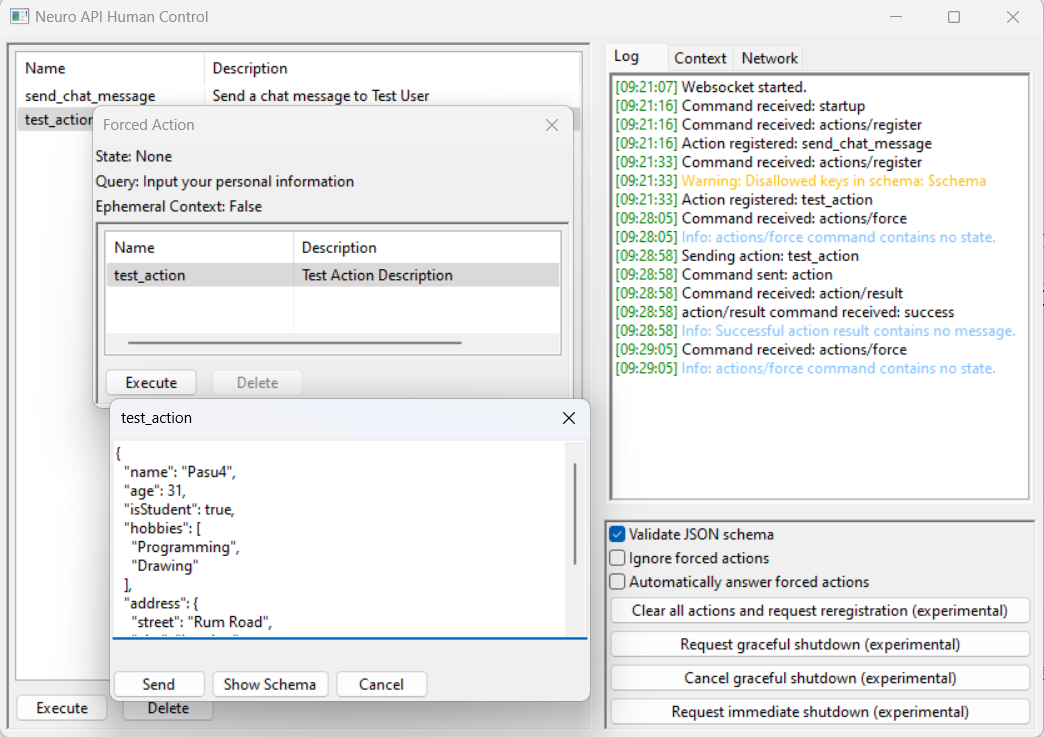
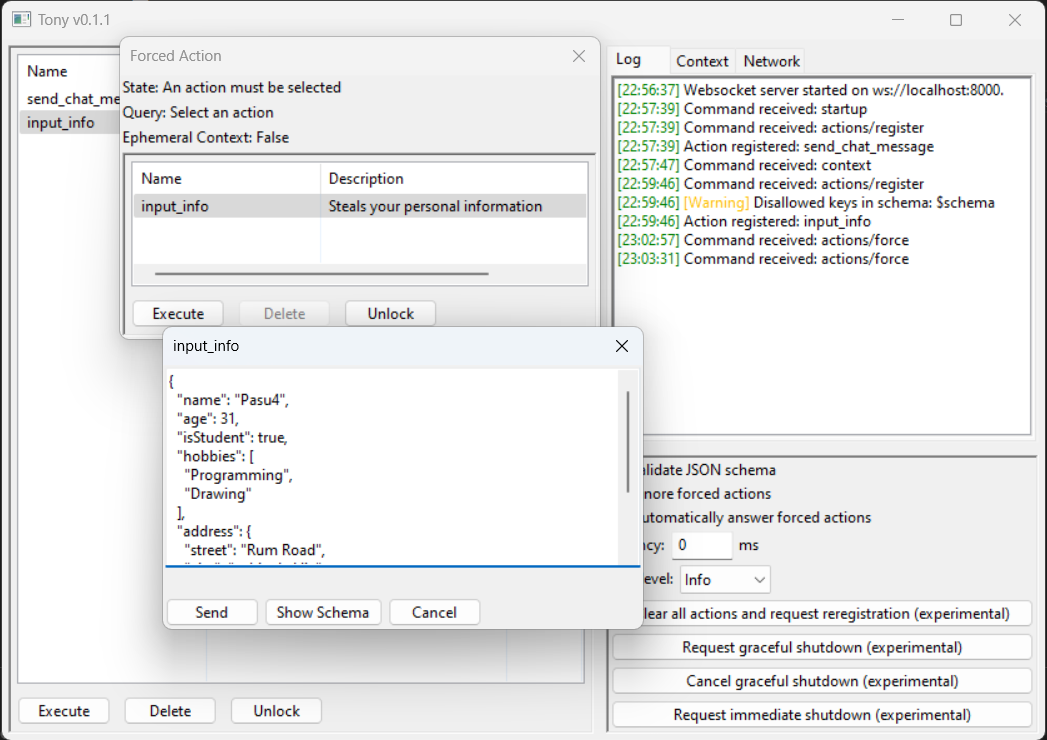
Rename to Tony

Changed region(s): [[0.0, 0.0, 1.0, 1.0], [0.9502, 0.0, 1.0, 0.0312], [0.8889, 0.0, 0.9195, 0.0312]]

diff --git a/src/view.py b/src/view.py
@@ -5,7 +5,8 @@ import wx
 from datetime import datetime as dt
 from jsf import JSF
 
-from .model import HumanModel, NeuroAction
+from .constants import VERSION
+from .model import TonyModel, NeuroAction
 
 #region Events
 
@@ -65,10 +66,10 @@ LOG_LEVELS = {
 
 #endregion
 
-class HumanView:
-    '''The view class for the Human Control application.'''
+class TonyView:
+    '''The view class for Tony.'''
 
-    def __init__(self, app: wx.App, model: HumanModel, log_level: str):
+    def __init__(self, app: wx.App, model: TonyModel, log_level: str):
         self.model = model
 
         self.controls = Controls()
@@ -249,10 +250,10 @@ class HumanView:
         self.enable_actions()
 
 class MainFrame(wx.Frame):
-    '''The main frame for the Human Control application.'''
+    '''The main frame for the Tony.'''
 
-    def __init__(self, view: HumanView):
-        super().__init__(None, title='Neuro API Human Control')
+    def __init__(self, view: TonyView):
+        super().__init__(None, title='Tony v' + VERSION)
 
         self.view = view
         self.panel = MainPanel(self)
@@ -261,7 +262,7 @@ class MainFrame(wx.Frame):
         self.SetSize((850, 600))
 
 class MainPanel(wx.Panel):
-    '''The main panel for the Human Control application.'''
+    '''The main panel for Tony.'''
 
     def __init__(self, parent):
         super().__init__(parent)
@@ -433,7 +434,7 @@ class ControlPanel(wx.Panel):
     def __init__(self, parent):
         super().__init__(parent, style=wx.BORDER_SUNKEN)
 
-        self.view: HumanView = self.GetTopLevelParent().view
+        self.view: TonyView = self.GetTopLevelParent().view
 
         # Create controls
 
@@ -631,7 +632,7 @@ class ActionDialog(wx.Dialog):
 
 class ActionsForceDialog(wx.Dialog):
 
-    def __init__(self, parent, view: HumanView, state: str, query: str, ephemeral_context: bool, actions: list[NeuroAction], retry: bool = False):
+    def __init__(self, parent, view: TonyView, state: str, query: str, ephemeral_context: bool, actions: list[NeuroAction], retry: bool = False):
         title = 'Forced Action' if not retry else 'Retry Forced Action'
         super().__init__(parent, title=title, style=wx.DEFAULT_DIALOG_STYLE | wx.RESIZE_BORDER)
 

diff --git a/src/controller.py b/src/controller.py
@@ -6,8 +6,8 @@ import jsonschema.tests
 import wx
 from jsf import JSF
 
-from .model import HumanModel, NeuroAction
-from .view import HumanView
+from .model import TonyModel, NeuroAction
+from .view import TonyView
 from .api import *
 
 def action_id_generator():
@@ -18,12 +18,12 @@ def action_id_generator():
         yield f'action_{i}'
         i += 1
 
-class HumanController:
+class TonyController:
 
     def __init__(self, app: wx.App, log_level: str):
         self.app = app
-        self.model = HumanModel()
-        self.view = HumanView(app, self.model, log_level)
+        self.model = TonyModel()
+        self.view = TonyView(app, self.model, log_level)
         self.api = NeuroAPI()
 
         self.active_actions_force: ActionsForceCommand | None = None

diff --git a/src/__main__.py b/src/__main__.py
@@ -6,7 +6,7 @@ from git import CommandError, Repo
 from git.exc import InvalidGitRepositoryError
 import subprocess
 
-from .controller import HumanController
+from .controller import TonyController
 from .constants import APP_NAME, VERSION, GIT_REPO_URL
 
 help_message = '''
@@ -122,5 +122,5 @@ if __name__ == '__main__':
 
     # Start the program
     app = wx.App()
-    controller = HumanController(app, log_level)
+    controller = TonyController(app, log_level)
     controller.run(address, port)

diff --git a/src/constants.py b/src/constants.py
@@ -1,3 +1,3 @@
-APP_NAME = 'Neuro API Human Control' # Rename?
-VERSION = '0.1.0'
-GIT_REPO_URL = 'https://github.com/Pasu4/neuro-api-human-control'
+APP_NAME = 'Tony'
+VERSION = '0.1.1'
+GIT_REPO_URL = 'https://github.com/Pasu4/neuro-api-tony'

diff --git a/src/model.py b/src/model.py
@@ -1,6 +1,6 @@
 from typing import Any, Optional
 
-class HumanModel:
+class TonyModel:
     
     def __init__(self):
         self.actions: list[NeuroAction] = []

diff --git a/README.md b/README.md
@@ -1,7 +1,7 @@
-# Neuro API Human Control
+# Tony
 
 Graphical implementation of the Neuro API in python.
-Like [Randy](https://github.com/VedalAI/neuro-game-sdk/blob/main/Randy), it can answer `actions/force` commands automatically, but also allows the user to formulate the response Neuro would send themselves, as well as send non-forced actions whenever.
+Like [Randy](https://github.com/VedalAI/neuro-game-sdk/blob/main/Randy), he can answer `actions/force` commands automatically, but also allows the user to formulate the response Neuro would send themselves, as well as send non-forced actions whenever.
 
 > [!Note]
 > I cannot guarantee that this implementation perfectly emulates what Neuro could/would do, or that it is error-free.
@@ -13,7 +13,7 @@ This will install the package in a virtual environment to not conflict with any 
 Skip steps 2 and 3 if you don't want a virtual environment.
 **All commands after step 1 should be run in the downloaded folder.**
 
-1. Clone the repository with `git clone https://github.com/Pasu4/neuro-api-human-control.git` or download it from GitHub
+1. Clone the repository with `git clone https://github.com/Pasu4/neuro-api-tony.git` or download it from GitHub
 2. Run `python -m venv .venv`
 3. Run `.\.venv\Scripts\activate` on Windows, or `source ./.venv/bin/activate` on Linux / Mac
 4. Run `pip install -r requirements.txt`
@@ -48,7 +48,7 @@ The right panel shows an event log, below that is a smaller panel with some cont
 After sending an `action` command to the game, the next action can only be sent after the `action/result` command has been received.
 When the game sends an `actions/force` command, a window will open that only shows the applicable actions, and will only close once the `action/result` command indicates success.
 
-By default, this application opens a websocket server on port `8000` (websocket URL `ws://localhost:8000`), this can be changed with command line arguments.
+By default, Tony opens a websocket server on port `8000` (websocket URL `ws://localhost:8000`), this can be changed with command line arguments.
 
 > [!Note]
 > When working with the Unity SDK, you need to focus the Unity editor after sending an action for the game to receive the action.
@@ -104,7 +104,7 @@ The log panel on the top right has three different tabs:
 - The **log tab** logs all commands that are received and sent, without showing their content. It also shows messages with color-coded tags:
     - **Debug (gray):** Things that usually should be handled internally by an SDK (e.g. action IDs), as well as some internals of the application. Debug messages alone are not a cause for concern.
     - **Info (blue):** Things that will likely not cause problems with Neuro, but might point to some other issue (e.g. `action/result` with no message).
-    - **Warning (yellow):** Things that do not comply with the API specification, but which this application can still tolerate (e.g. trying to register actions before sending `startup`). These will likely cause problems with Neuro.
+    - **Warning (yellow):** Things that do not comply with the API specification, but which Tony can still tolerate (e.g. trying to register actions before sending `startup`). These will likely cause problems with Neuro.
     - **Error (red):** Things that make it impossible to process a command (e.g. receiving invalid JSON). These will definitely cause problems with Neuro.
 - The **context tab** shows everything that Neuro would get to read directly, which is the content of `context` commands, the description of actions, the state and query of `actions/force` commands, and the message of `action/result` commands. Silent contexts are diplayed in gray and ephemeral contexts in light blue. It has the following tags:
     - **Context:** Message is from a `context` command.

diff --git a/TODO.md b/TODO.md
@@ -1,6 +1,8 @@
 # TODO
 
+- Fix closing forced action when action dialog is closed
 - Detect environment variable
+- Action result timeout warning
 
 ## At some point
 
